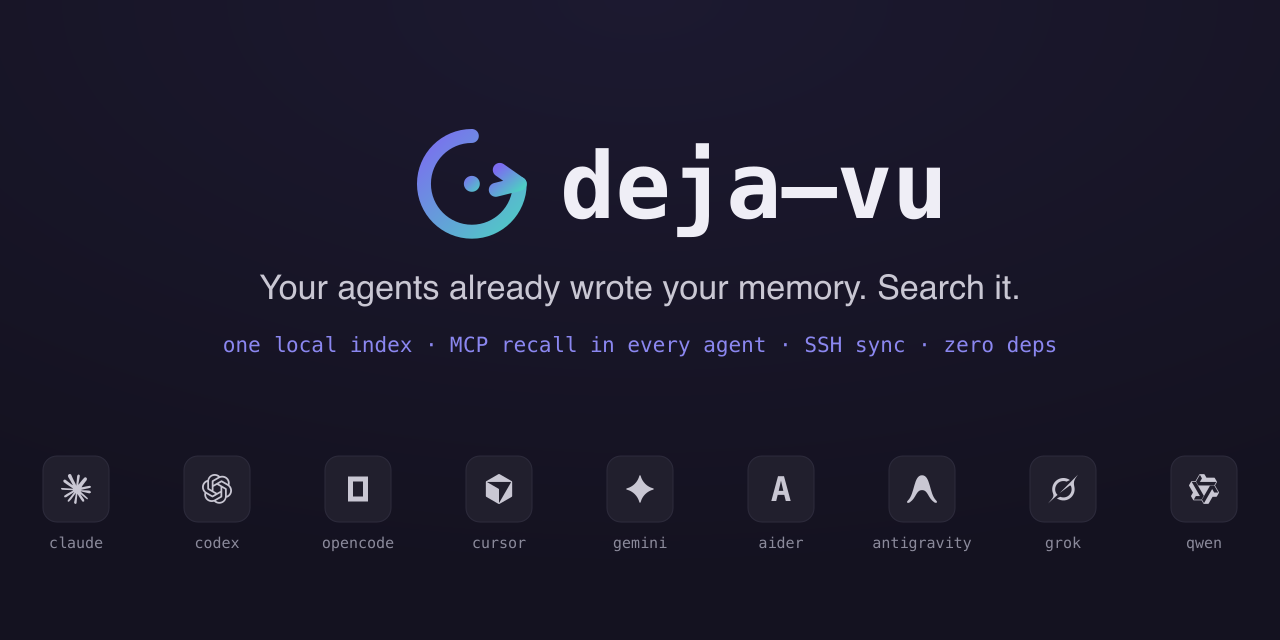
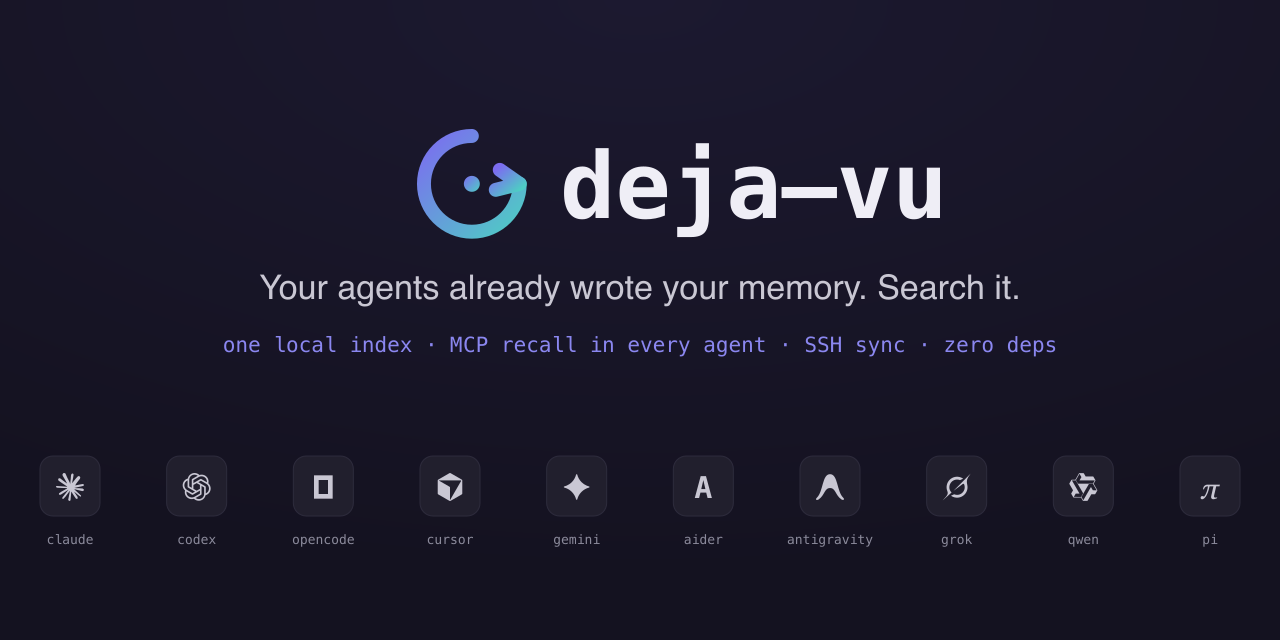
docs: pi as the tenth harness, 0.13.1 changelog, refreshed site and og image

diff --git a/docs/index.html b/docs/index.html
@@ -4,11 +4,11 @@
 <meta charset="utf-8">
 <meta name="viewport" content="width=device-width, initial-scale=1">
 <title>deja-vu — your agents already solved this. deja finds it.</title>
-<meta name="description" content="A memory layer for coding agents: search, MCP recall, auto-context, secret redaction, stats, share and sync over the session histories Claude Code, Codex, opencode, Cursor, Gemini CLI, aider, Antigravity, Grok Build and Qwen Code already write. One zero-dependency binary, fully local.">
+<meta name="description" content="A memory layer for coding agents: search, MCP recall, auto-context, secret redaction, stats, share and sync over the session histories Claude Code, Codex, opencode, Cursor, Gemini CLI, aider, Antigravity, Grok Build, Qwen Code and pi already write. One zero-dependency binary, fully local.">
 <link rel="canonical" href="https://vshulcz.github.io/deja-vu/">
 <meta property="og:type" content="website">
 <meta property="og:title" content="deja-vu — search every session your coding agents ever wrote">
-<meta property="og:description" content="Your agents already solved this. deja finds it. One local index across nine coding agents, served back to them via MCP.">
+<meta property="og:description" content="Your agents already solved this. deja finds it. One local index across ten coding agents, served back to them via MCP.">
 <meta property="og:url" content="https://vshulcz.github.io/deja-vu/">
 <meta property="og:image" content="https://vshulcz.github.io/deja-vu/assets/og.png">
 <meta name="twitter:card" content="summary_large_image">
@@ -127,7 +127,7 @@ a:hover{text-decoration:underline}
     <button class="copy" data-copy="cmd">copy</button>
   </div>
 <div class="agents">
-  <div class="cap">one index &middot; nine agents</div>
+  <div class="cap">one index &middot; ten agents</div>
   <div class="row">
     <span class="agent"><span class="disc"><svg aria-label="Claude Code" fill="currentColor" fill-rule="evenodd" height="1em" style="flex:none;line-height:1" viewBox="0 0 24 24" width="1em" xmlns="http://www.w3.org/2000/svg"><title>Claude</title><path d="M4.709 15.955l4.72-2.647.08-.23-.08-.128H9.2l-.79-.048-2.698-.073-2.339-.097-2.266-.122-.571-.121L0 11.784l.055-.352.48-.321.686.06 1.52.103 2.278.158 1.652.097 2.449.255h.389l.055-.157-.134-.098-.103-.097-2.358-1.596-2.552-1.688-1.336-.972-.724-.491-.364-.462-.158-1.008.656-.722.881.06.225.061.893.686 1.908 1.476 2.491 1.833.365.304.145-.103.019-.073-.164-.274-1.355-2.446-1.446-2.49-.644-1.032-.17-.619a2.97 2.97 0 01-.104-.729L6.283.134 6.696 0l.996.134.42.364.62 1.414 1.002 2.229 1.555 3.03.456.898.243.832.091.255h.158V9.01l.128-1.706.237-2.095.23-2.695.08-.76.376-.91.747-.492.584.28.48.685-.067.444-.286 1.851-.559 2.903-.364 1.942h.212l.243-.242.985-1.306 1.652-2.064.73-.82.85-.904.547-.431h1.033l.76 1.129-.34 1.166-1.064 1.347-.881 1.142-1.264 1.7-.79 1.36.073.11.188-.02 2.856-.606 1.543-.28 1.841-.315.833.388.091.395-.328.807-1.969.486-2.309.462-3.439.813-.042.03.049.061 1.549.146.662.036h1.622l3.02.225.79.522.474.638-.079.485-1.215.62-1.64-.389-3.829-.91-1.312-.329h-.182v.11l1.093 1.068 2.006 1.81 2.509 2.33.127.578-.322.455-.34-.049-2.205-1.657-.851-.747-1.926-1.62h-.128v.17l.444.649 2.345 3.521.122 1.08-.17.353-.608.213-.668-.122-1.374-1.925-1.415-2.167-1.143-1.943-.14.08-.674 7.254-.316.37-.729.28-.607-.461-.322-.747.322-1.476.389-1.924.315-1.53.286-1.9.17-.632-.012-.042-.14.018-1.434 1.967-2.18 2.945-1.726 1.845-.414.164-.717-.37.067-.662.401-.589 2.388-3.036 1.44-1.882.93-1.086-.006-.158h-.055L4.132 18.56l-1.13.146-.487-.456.061-.746.231-.243 1.908-1.312-.006.006z"></path></svg></span><span class="nm">Claude Code</span></span>
     <span class="agent"><span class="disc"><svg aria-label="Codex CLI" fill="currentColor" fill-rule="evenodd" height="1em" style="flex:none;line-height:1" viewBox="0 0 24 24" width="1em" xmlns="http://www.w3.org/2000/svg"><title>OpenAI</title><path d="M9.205 8.658v-2.26c0-.19.072-.333.238-.428l4.543-2.616c.619-.357 1.356-.523 2.117-.523 2.854 0 4.662 2.212 4.662 4.566 0 .167 0 .357-.024.547l-4.71-2.759a.797.797 0 00-.856 0l-5.97 3.473zm10.609 8.8V12.06c0-.333-.143-.57-.429-.737l-5.97-3.473 1.95-1.118a.433.433 0 01.476 0l4.543 2.617c1.309.76 2.189 2.378 2.189 3.948 0 1.808-1.07 3.473-2.76 4.163zM7.802 12.703l-1.95-1.142c-.167-.095-.239-.238-.239-.428V5.899c0-2.545 1.95-4.472 4.591-4.472 1 0 1.927.333 2.712.928L8.23 5.067c-.285.166-.428.404-.428.737v6.898zM12 15.128l-2.795-1.57v-3.33L12 8.658l2.795 1.57v3.33L12 15.128zm1.796 7.23c-1 0-1.927-.332-2.712-.927l4.686-2.712c.285-.166.428-.404.428-.737v-6.898l1.974 1.142c.167.095.238.238.238.428v5.233c0 2.545-1.974 4.472-4.614 4.472zm-5.637-5.303l-4.544-2.617c-1.308-.761-2.188-2.378-2.188-3.948A4.482 4.482 0 014.21 6.327v5.423c0 .333.143.571.428.738l5.947 3.449-1.95 1.118a.432.432 0 01-.476 0zm-.262 3.9c-2.688 0-4.662-2.021-4.662-4.519 0-.19.024-.38.047-.57l4.686 2.71c.286.167.571.167.856 0l5.97-3.448v2.26c0 .19-.07.333-.237.428l-4.543 2.616c-.619.357-1.356.523-2.117.523zm5.899 2.83a5.947 5.947 0 005.827-4.756C22.287 18.339 24 15.84 24 13.296c0-1.665-.713-3.282-1.998-4.448.119-.5.19-.999.19-1.498 0-3.401-2.759-5.947-5.946-5.947-.642 0-1.26.095-1.88.31A5.962 5.962 0 0010.205 0a5.947 5.947 0 00-5.827 4.757C1.713 5.447 0 7.945 0 10.49c0 1.666.713 3.283 1.998 4.448-.119.5-.19 1-.19 1.499 0 3.401 2.759 5.946 5.946 5.946.642 0 1.26-.095 1.88-.309a5.96 5.96 0 004.162 1.713z"></path></svg></span><span class="nm">Codex CLI</span></span>
@@ -138,6 +138,7 @@ a:hover{text-decoration:underline}
     <span class="agent"><span class="disc"><svg aria-label="Antigravity" fill="currentColor" fill-rule="evenodd" height="1em" style="flex:none;line-height:1" viewBox="0 0 24 24" width="1em" xmlns="http://www.w3.org/2000/svg"><title>Antigravity</title><path d="M21.751 22.607c1.34 1.005 3.35.335 1.508-1.508C17.73 15.74 18.904 1 12.037 1 5.17 1 6.342 15.74.815 21.1c-2.01 2.009.167 2.511 1.507 1.506 5.192-3.517 4.857-9.714 9.715-9.714 4.857 0 4.522 6.197 9.714 9.715z"></path></svg></span><span class="nm">Antigravity</span></span>
     <span class="agent"><span class="disc"><svg aria-label="Grok Build" fill="currentColor" fill-rule="evenodd" height="1em" style="flex:none;line-height:1" viewBox="0 0 24 24" width="1em" xmlns="http://www.w3.org/2000/svg"><title>Grok</title><path d="M9.27 15.29l7.978-5.897c.391-.29.95-.177 1.137.272.98 2.369.542 5.215-1.41 7.169-1.951 1.954-4.667 2.382-7.149 1.406l-2.711 1.257c3.889 2.661 8.611 2.003 11.562-.953 2.341-2.344 3.066-5.539 2.388-8.42l.006.007c-.983-4.232.242-5.924 2.75-9.383.06-.082.12-.164.179-.248l-3.301 3.305v-.01L9.267 15.292M7.623 16.723c-2.792-2.67-2.31-6.801.071-9.184 1.761-1.763 4.647-2.483 7.166-1.425l2.705-1.25a7.808 7.808 0 00-1.829-1A8.975 8.975 0 005.984 5.83c-2.533 2.536-3.33 6.436-1.962 9.764 1.022 2.487-.653 4.246-2.34 6.022-.599.63-1.199 1.259-1.682 1.925l7.62-6.815"></path></svg></span><span class="nm">Grok Build</span></span>
     <span class="agent"><span class="disc"><svg aria-label="Qwen Code" fill="currentColor" fill-rule="evenodd" height="1em" style="flex:none;line-height:1" viewBox="0 0 24 24" width="1em" xmlns="http://www.w3.org/2000/svg"><title>Qwen Code</title><path d="M23.919 14.545 20.817 9.17l1.47-2.544a.56.56 0 0 0 0-.566l-1.633-2.83a.57.57 0 0 0-.49-.283h-6.207L12.487.402a.57.57 0 0 0-.49-.284H8.732a.56.56 0 0 0-.49.284L5.139 5.775h-2.94a.56.56 0 0 0-.49.284L.077 8.887a.56.56 0 0 0 0 .567L3.18 14.83l-1.47 2.545a.56.56 0 0 0 0 .566l1.634 2.83a.57.57 0 0 0 .49.283h6.205l1.47 2.545a.57.57 0 0 0 .49.284h3.266a.57.57 0 0 0 .49-.284l3.104-5.375h2.94a.57.57 0 0 0 .49-.283l1.634-2.828a.55.55 0 0 0-.004-.568M8.733.686l1.634 2.828-1.634 2.828H21.8L20.164 9.17H7.425L5.63 6.06Zm1.306 19.801-6.205-.002 1.634-2.83h3.265L2.201 6.344h3.267q3.182 5.517 6.367 11.032zm10.124-5.66L18.53 12l-6.532 11.315-1.634-2.83c2.129-3.673 4.25-7.351 6.373-11.028h3.592l3.102 5.374z"></path></svg></span><span class="nm">Qwen Code</span></span>
+    <span class="agent"><span class="disc"><svg aria-label="pi" fill="currentColor" height="1em" style="flex:none;line-height:1" viewBox="0 0 24 24" width="1em" xmlns="http://www.w3.org/2000/svg"><title>pi</title><text x="12" y="18" font-family="Georgia, serif" font-size="18" font-style="italic" text-anchor="middle" fill="currentColor">&#960;</text></svg></span><span class="nm">pi</span></span>
   </div>
 </div>
 
@@ -167,7 +168,7 @@ a:hover{text-decoration:underline}
     <div class="card">
       <div class="ic"><svg viewBox="0 0 24 24"><path d="M4 6h16M4 12h16M4 18h10"/></svg></div>
       <h3>One index, every harness</h3>
-      <p>Nine harnesses — Claude Code, Codex, opencode, Cursor, Gemini CLI, aider, Antigravity, Grok Build, Qwen Code — one index, retroactively. A fix found in Codex is recalled inside Claude Code.</p>
+      <p>Ten harnesses — Claude Code, Codex, opencode, Cursor, Gemini CLI, aider, Antigravity, Grok Build, Qwen Code, pi — one index, retroactively. A fix found in Codex is recalled inside Claude Code.</p>
     </div>
     <div class="card">
       <div class="ic"><svg viewBox="0 0 24 24"><path d="M6 3v18M6 8h12l-3-3M18 8l-3 3"/></svg></div>

diff --git a/CHANGELOG.md b/CHANGELOG.md
@@ -19,10 +19,20 @@ and this project adheres to [Semantic Versioning](https://semver.org/spec/v2.0.0
 - MCP tool descriptions rewritten around user trigger phrases, with read-only annotations; the injected digest opens with an actionable line.
 - deja bench context: a seeded, ablation-armed context-readiness experiment with coverage gates and negative controls.
 - A Dockerfile for directory checkers, and automatic publication of server.json to the MCP registry on release.
+- pi (pi.dev) as the tenth supported harness (contributed by @maxandersen).
 
 ### Fixed
-- recall_context no longer returns a header-only digest for multi-word queries and falls back to a session overview (community contribution).
-- The xai- redaction pattern no longer matches kebab-case prose (community contribution).
+- Incremental update no longer drops untouched Cursor sessions from the index.
+- The search/MCP build path dedups messages, so a session present in two stores is not double-indexed.
+- `deja forget` writes tombstones before rebuilding so a crash cannot resurrect forgotten sessions; `unforget` matches by id-prefix so a bare letter cannot revive whole harnesses.
+- The aider parser reads unbounded lines, so a multi-megabyte pasted blob no longer drops later sessions.
+- Fuzzy and word-form hits rank by relevance (BM25) instead of recency only; stop words no longer over-constrain natural-language queries.
+- Install writes the MCP command through `cmd /c` on Windows so stdio clients can spawn it.
+- `recall_context` no longer returns a header-only digest for multi-word queries (community contribution).
+- A corrupt record length prefix is rejected instead of allocating gigabytes.
+
+### Security
+- Redaction now covers HTTP Basic auth, `scheme://:password@host` URLs and PGP armored keys, runs before the size cap so a boundary-straddling secret is not stored raw, and the `sk-`/`xai-` rules no longer destroy kebab-case prose (the xai- fix is a community contribution).
 
 ## [0.13.0] - 2026-07-19
 

diff --git a/README.md b/README.md
@@ -1,6 +1,6 @@
 <p align="center"><img src="assets/logo.svg" width="340" alt="deja-vu"></p>
 
-<p align="center"><strong>Your agents already solved this. deja finds it.</strong><br>Search 3.3&nbsp;GB of agent history in ~12&nbsp;ms &mdash; one zero-dependency binary, fully local.</p>
+<p align="center"><strong>Your agents already solved this. deja finds it.</strong><br>Search 3.3&nbsp;GB of agent history in ~12&nbsp;ms &mdash; and reach working context for ~60&times; fewer tokens than replaying it. One zero-dependency binary, fully local.</p>
 
 <p align="center"><a href="https://vshulcz.github.io/deja-vu/">vshulcz.github.io/deja-vu</a></p>
 
@@ -14,7 +14,7 @@
 
 <p align="center"><img src="assets/demo.gif" alt="deja demo"></p>
 
-Claude Code, Codex, opencode, aider, Gemini CLI, Cursor, Antigravity, Grok Build and Qwen Code write every conversation to local files — gigabytes of debugged problems and design decisions you can't search. deja is a zero-dependency binary that turns those histories into a memory layer:
+Claude Code, Codex, opencode, aider, Gemini CLI, Cursor, Antigravity, Grok Build, Qwen Code and pi write every conversation to local files — gigabytes of debugged problems and design decisions you can't search. deja is a zero-dependency binary that turns those histories into a memory layer:
 
 | Feature | What it does |
 | --- | --- |
@@ -183,13 +183,13 @@ Batches are plain JSONL, redacted on the way out. Import is idempotent, so keep 
 
 ## Teach your agent to remember
 
-`deja install --all` wires up MCP recall (Claude Code, Codex, opencode, Cursor, Gemini CLI, Antigravity, Grok Build, Qwen Code — aider has no MCP client, pipe `deja ctx` instead); `deja install --auto` does the same and adds session-start auto-recall where the harness supports it (Claude Code hook, Codex hooks.json, an opencode plugin — Cursor, Gemini CLI, Antigravity, Grok Build and Qwen Code have no hook that can inject context, so MCP is their full install). To make
+`deja install --all` wires up MCP recall (Claude Code, Codex, opencode, Cursor, Gemini CLI, Antigravity, Grok Build, Qwen Code, pi — aider has no MCP client, pipe `deja ctx` instead); `deja install --auto` does the same and adds session-start auto-recall where the harness supports it (Claude Code hook, Codex hooks.json, an opencode plugin — Cursor, Gemini CLI, Antigravity, Grok Build, Qwen Code and pi have no hook that can inject context, so MCP is their full install). To make
 the agent reach for memory on its own, add this to your `CLAUDE.md` /
 `AGENTS.md`:
 
 ```
 Before debugging or re-implementing something, run `deja "<query>"` (or the
- MCP recall tool) — past agent sessions across Claude Code, Codex, opencode, aider, Gemini CLI, Cursor, Antigravity, Grok Build and Qwen Code
+ MCP recall tool) — past agent sessions across Claude Code, Codex, opencode, aider, Gemini CLI, Cursor, Antigravity, Grok Build, Qwen Code and pi
 are indexed locally. Cite what you reuse.
 ```
 
@@ -226,6 +226,7 @@ limits, trust assumptions, and release verification.
 | Antigravity | `~/.gemini/antigravity*/brain/*/.system_generated/logs/transcript.jsonl` | ✅ |
 | Grok Build | `~/.grok/sessions/**/updates.jsonl` | ✅ |
 | Qwen Code | `~/.qwen/projects/**/chats/*.jsonl` | ✅ |
+| pi | `~/.pi/agent/sessions/**/*.jsonl` | ✅ |
 
 Custom locations via `DEJA_CLAUDE_ROOT`, `DEJA_CODEX_ROOT`, `DEJA_OPENCODE_DB`, `DEJA_AIDER_ROOTS`, `DEJA_GEMINI_ROOT`, `DEJA_CURSOR_ROOT`, `DEJA_CURSOR_CLI_ROOT`, `DEJA_ANTIGRAVITY_ROOT`, `DEJA_GROK_ROOT`, `DEJA_QWEN_ROOT`, `DEJA_INDEX_DIR`. Each agent's own relocation variable is honored too: `CLAUDE_CONFIG_DIR`, `CODEX_HOME`, `GEMINI_CLI_HOME`, `CURSOR_CONFIG_DIR`, `GROK_HOME`, `AIDER_CHAT_HISTORY_FILE`, and `XDG_DATA_HOME` for opencode on Linux.
 